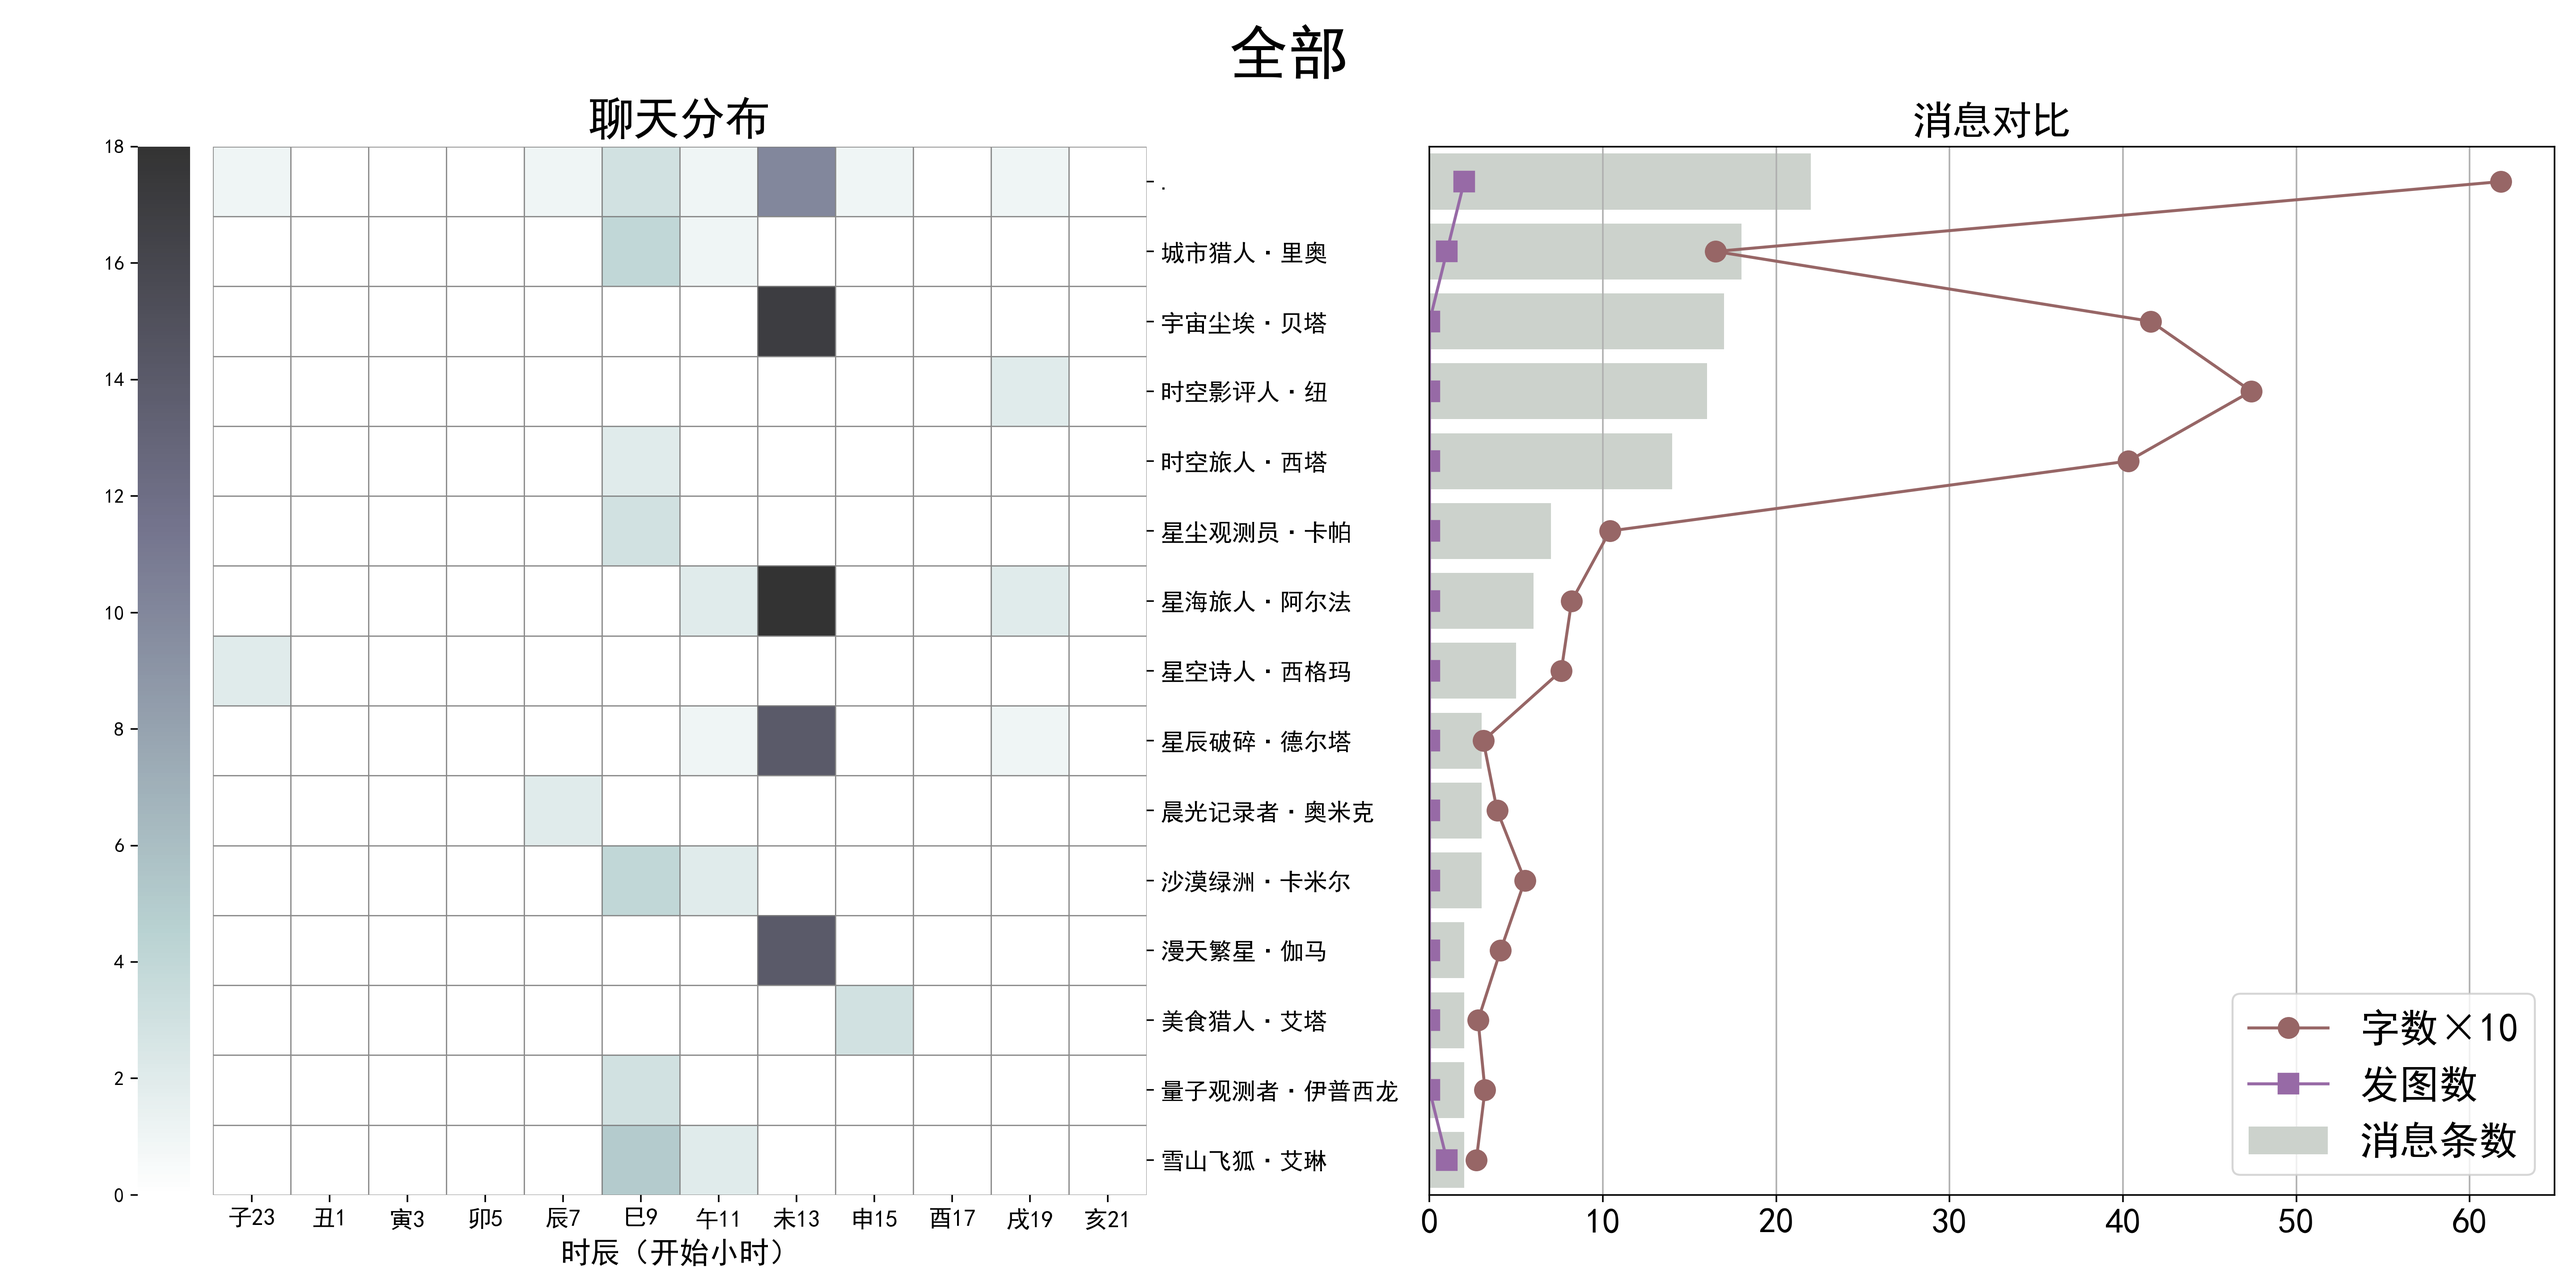
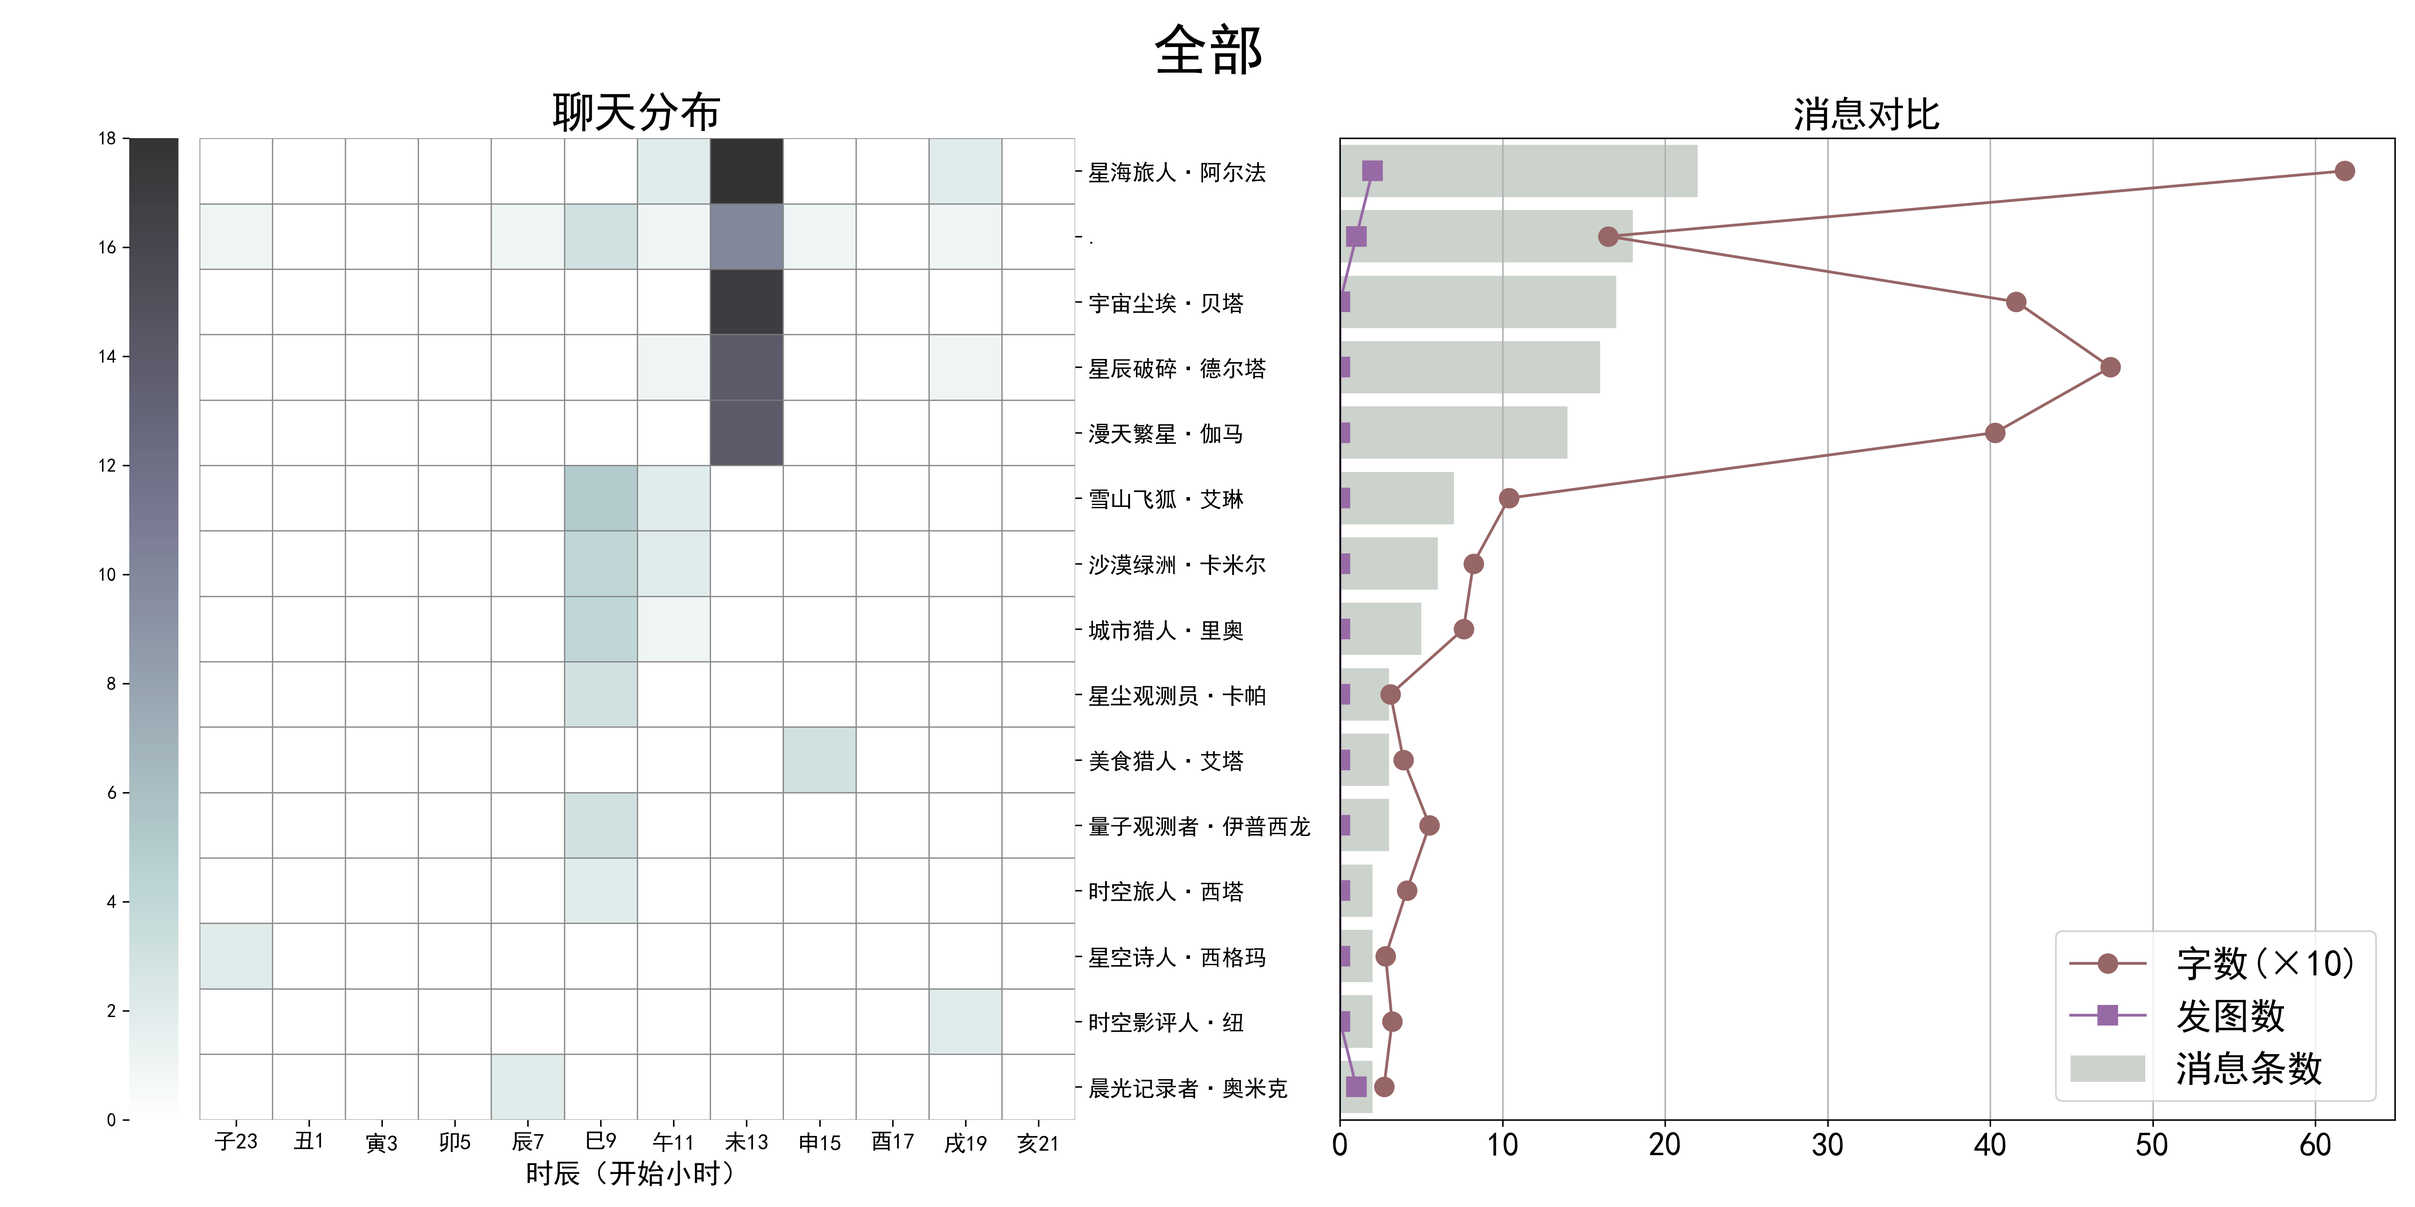
修正排序逻辑

diff --git a/code/draw_result.py b/code/draw_result.py
@@ -26,7 +26,9 @@ def prepare_data() -> pd.DataFrame:
     读取数据，原数据列名：时间、昵称、id、文本
     处理文本为空的情况
     添加数据列：小时、时辰、周几、"""
-    df = pd.read_csv("OrganizedData.csv", encoding="utf-8-sig", parse_dates=["Time"])
+    df = pd.read_csv("OrganizedData.csv",
+                     encoding="utf-8-sig",
+                     parse_dates=["Time"])
     df["Message"] = df["Message"].fillna("")  # 处理空消息
 
     df["Hour"] = df["Time"].dt.hour
@@ -36,7 +38,8 @@ def prepare_data() -> pd.DataFrame:
 
     df["Day_of_Week"] = df["Time"].dt.dayofweek
 
-    df["media_count"] = df["Message"].str.contains("[图片]", regex=False).astype(int)
+    df["media_count"] = df["Message"].str.contains("[图片]",
+                                                   regex=False).astype(int)
     df["word_count"] = df["Message"].str.len()
     return df
 
@@ -44,15 +47,11 @@ def prepare_data() -> pd.DataFrame:
 def generate_statistics(df: pd.DataFrame, top_n: int) -> dict:
     """生成发送者的统计信息"""
     # 消息、图片、字数统计
-    stats = (
-        df.groupby("Sender")
-        .agg(
-            message_count=("Sender", "size"),
-            pic_count=("media_count", "sum"),
-            word_count=("word_count", "sum"),
-        )
-        .sort_values("message_count", ascending=False)
-    )
+    stats = (df.groupby("Sender").agg(
+        message_count=("Sender", "size"),
+        pic_count=("media_count", "sum"),
+        word_count=("word_count", "sum"),
+    ).sort_values("message_count", ascending=False))
 
     # 取前 top_n 个发送者
     top_n = len(stats) if len(stats) <= top_n else top_n
@@ -60,13 +59,10 @@ def generate_statistics(df: pd.DataFrame, top_n: int) -> dict:
     senders = top_senders.index.tolist()
 
     # 各时辰消息数
-    shichen_stats = (
-        df[df["Sender"].isin(senders)]
-        .groupby(["Sender", "ShiChen"])
-        .size()
-        .unstack(fill_value=0)
-        .reindex(columns=shichen_list, fill_value=0)
-    )
+    shichen_stats = (df[df["Sender"].isin(senders)].groupby([
+        "Sender", "ShiChen"
+    ]).size().unstack(fill_value=0).reindex(columns=shichen_list,
+                                            fill_value=0)).reindex(senders)
     return {
         "message_count": top_senders["message_count"],
         "pic_count": top_senders["pic_count"],
@@ -84,7 +80,7 @@ def plot_charts(timestr: str, folder_path: str, stats: dict) -> None:
     plt.rcParams["font.sans-serif"] = "SimHei"
     plt.rcParams["axes.unicode_minus"] = False
 
-    fig, (ax1, ax2) = plt.subplots(1, 2, figsize=(18, 9), dpi=320)
+    fig, (ax1, ax2) = plt.subplots(1, 2, figsize=(18, 9), dpi=300)
 
     plt.suptitle(timestr, fontsize=30)  # 总标题
 
@@ -95,9 +91,12 @@ def plot_charts(timestr: str, folder_path: str, stats: dict) -> None:
         linewidths=0.3,
         linecolor="grey",
         cmap="bone_r",
-        cbar_kws={"location": "left", "pad": 0.02},  # 缩小间距（默认值为0.15）
+        cbar_kws={
+            "location": "left",
+            "pad": 0.02
+        },  # 缩小间距（默认值为0.15）
         alpha=0.8,
-    )
+        yticklabels=stats["senders"])
     ax1.set_title("聊天分布", fontsize=23)
     ax1.set_xlabel("时辰（开始小时）", fontsize=15)
     ax1.yaxis.tick_right()  # 将y轴标签移动到右边
@@ -116,7 +115,7 @@ def plot_charts(timestr: str, folder_path: str, stats: dict) -> None:
         color="#976666",
         marker="o",
         markersize=10,
-        label="字数×10",
+        label="字数(×10)",
     )
     ax2.plot(
         stats["pic_count"],

diff --git a/code/main.py b/code/main.py
@@ -1,30 +1,31 @@
-from tosheet import qq_txt_to_csv,get_last_time_range
+from tosheet import qq_txt_to_csv, get_last_time_range
 from draw_result import draw
 import os
 
-
 # 聊天记录目录
-namelist = ['聊天记录导出']
+namelist = ['低研会官服助战交流群1', "球球被窝"]
 for name in namelist:
-    file_path = name +'.txt'
+    file_path = name + '.txt'
 
-    folder_path = f'./{name}'   # 检查文件夹是否存在
+    folder_path = f'./{name}'  # 检查文件夹是否存在
     if not os.path.exists(folder_path):
         os.makedirs(folder_path)
         print(f"文件夹 {folder_path} 已创建。")
 
     # 屏蔽
-    banned_id_list=[10000,1000000,  #系统消息
-                1342119471950,965235504401 #机械人
-                ]
+    banned_id_list = [
+        10000,
+        1000000,  #系统消息
+        1342971950  #机械人
+    ]
 
     # 上周，上上周（比如说上周忘了出图时用），上个月，去年，昨天
-    timerange = 'all' # lastweek, lastlastweek, lastmonth, lastyear, yesterday, all
+    timerange = 'all'  # lastweek, lastlastweek, lastmonth, lastyear, yesterday, all
 
     # 整理成csv，排除特定用户，指定时间段
-    sd,ed,idstr = get_last_time_range(timerange)
-    chat_df = qq_txt_to_csv(file_path,banned_id_list,sd,ed)
-    chat_df.to_csv(r"OrganizedData.csv",encoding='utf-8-sig')
+    sd, ed, idstr = get_last_time_range(timerange)
+    chat_df = qq_txt_to_csv(file_path, banned_id_list, sd, ed)
+    chat_df.to_csv(r"OrganizedData.csv", encoding='utf-8-sig')
 
     # 画图
-    draw(idstr,folder_path)
+    draw(idstr, folder_path)
